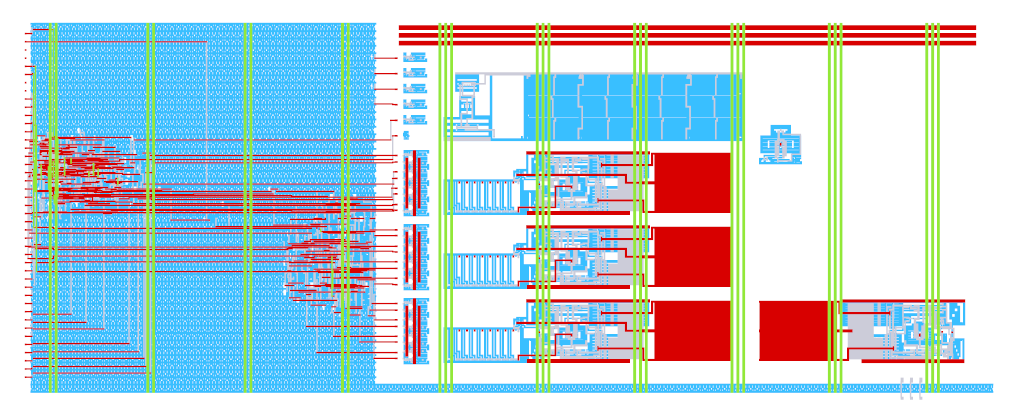
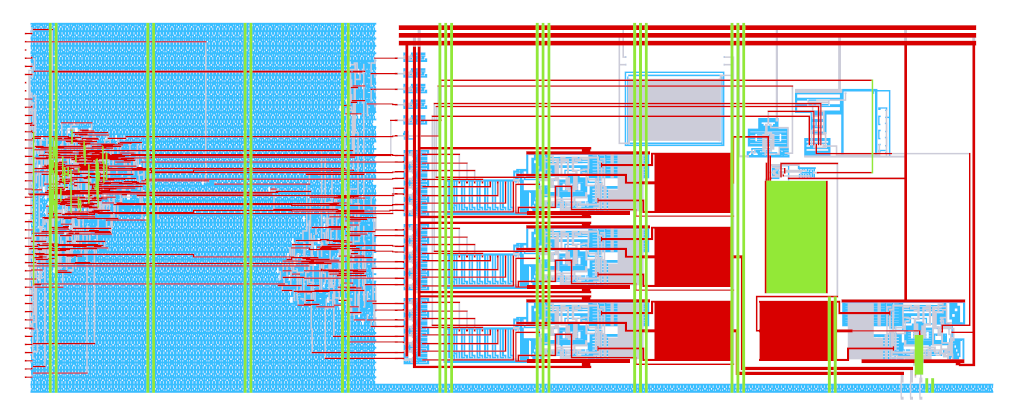
chore: update heichips26-FAIfplus

Changed region(s): [[0.0, 0.0587, 0.9688, 0.9389]]

diff --git a/README.md b/README.md
@@ -116,26 +116,78 @@ Uses VAPRW: `True`
 
 **Team members:**
 
+- Benedikt Lukat
 - Pascal Gesell
 - Torsten Maehne
 - Graeme Bragg
-- Benedikt Lukat
 
 **Description:**
 
-HeiChips 2026 FABulous Analogue Interface
+HeiChips 2026 FABulous Analogue Interface (FAIf)
 
-This repository is the fork of the HeiChips 2026 submission template for the analogue peripherals project at the HeiChips 2026 Hackathon.
-This project is implemented as a digital-on-top design with the following peripherals:
+Analogue peripherals for the eFPGA: two 8-bit DACs and an 8-bit SAR ADC,
+controlled through the standard digital interface. All analogue blocks
+(R-2R ladders, opamps, comparator, sample & hold, PTAT bias, level
+translators) are full-custom in a hard macro supplied by the 3.3 V analogue
+supply VAPWR; the control logic is synthesised in the 1.2 V core domain.
 
-* 16-bit DAC
-* 16-bit ADC
-* DDS
+**Analogue pins**
 
-The project makes use of three dedicated analogue pins and uses the small tile size.
+| Pin | Function |
+| --- | -------- |
+| analog_0 | DAC2 output (buffered) |
+| analog_1 | DAC1 output (buffered) |
+| analog_2 | ADC input |
 
-**nice** *formatting* and [links](https://heichips.github.io/).
-Repository: https://github.com/heliosfa/heichips26-FAIf
+**Digital interface** (all inputs sampled on the rising edge of `clk`)
+
+| Pin | Function |
+| --- | -------- |
+| `ui_in[7:0]` | DAC data / configuration data |
+| `uio_in[0]` | ADC clear |
+| `uio_in[1]` | ADC enable |
+| `uio_in[2]` | ADC start |
+| `uio_in[5]` | DAC select (0 = DAC1 byte, 1 = DAC2 byte and update) |
+| `uio_in[6]` | DAC load |
+| `uio_in[7]` | load configuration |
+| `uo_out[7:0]` | ADC result |
+| `uio_out[3]` | ADC done |
+| `uio_out[4]` | ADC tick (result valid, one clock) |
+
+**How to use it**
+
+- DACs: set `ui_in` to the DAC1 value and pulse DAC load with DAC select = 0;
+  then set `ui_in` to the DAC2 value and pulse DAC load with DAC select = 1.
+  Both outputs update together on the second load.
+- ADC: set ADC enable = 1. While the ADC is idle, the sample & hold tracks
+  analog_2. Pulse ADC start for one clock: the S&H holds, the SAR decides one
+  bit per clock (MSB first), and 9 clocks after start ADC tick marks the new
+  result on `uo_out`, which stays until the next result. ADC clear stops a
+  conversion and clears the result.
+- Configuration: pulse load configuration with the value on `ui_in`.
+  `cfg[3:0]` drives four spare 3.3 V outputs inside the macro (reserved for
+  a later trim); `cfg[7:4]` is unused.
+
+**Timing**: each SAR bit uses the comparator one clock period after the DAC
+changed, so the clock must be slow enough for DAC and comparator to settle.
+The S&H needs about 2 µs of idle (tracking) time between conversions; the
+input buffer limits a full-scale step to 7–12 µs and a full-scale sine to
+about 26 kHz.
+
+**Test and PCB needs**
+
+- VAPWR 3.3 V (analogue supply) must be present.
+- analog_2: a low-impedance source within the ADC input range, e.g. a
+  function generator or a DAC output looped back externally.
+- analog_0/analog_1: a test point or SMA connector per output for a scope or
+  multimeter; the outputs are buffered on chip but not meant to drive heavy
+  loads.
+- The clock is provided by the RP2350 and can be slowed down for the ADC.
+- opt., Self-test: loop a DAC output back to analog_2 on the PCB
+  (DAC1 on analog_1 is the neighbouring pin) and compare the
+  ADC result with the DAC code.
+
+Repository: https://github.com/ThePil0t/heichips26-FAIfplus
 
 
 ### E2Spike
